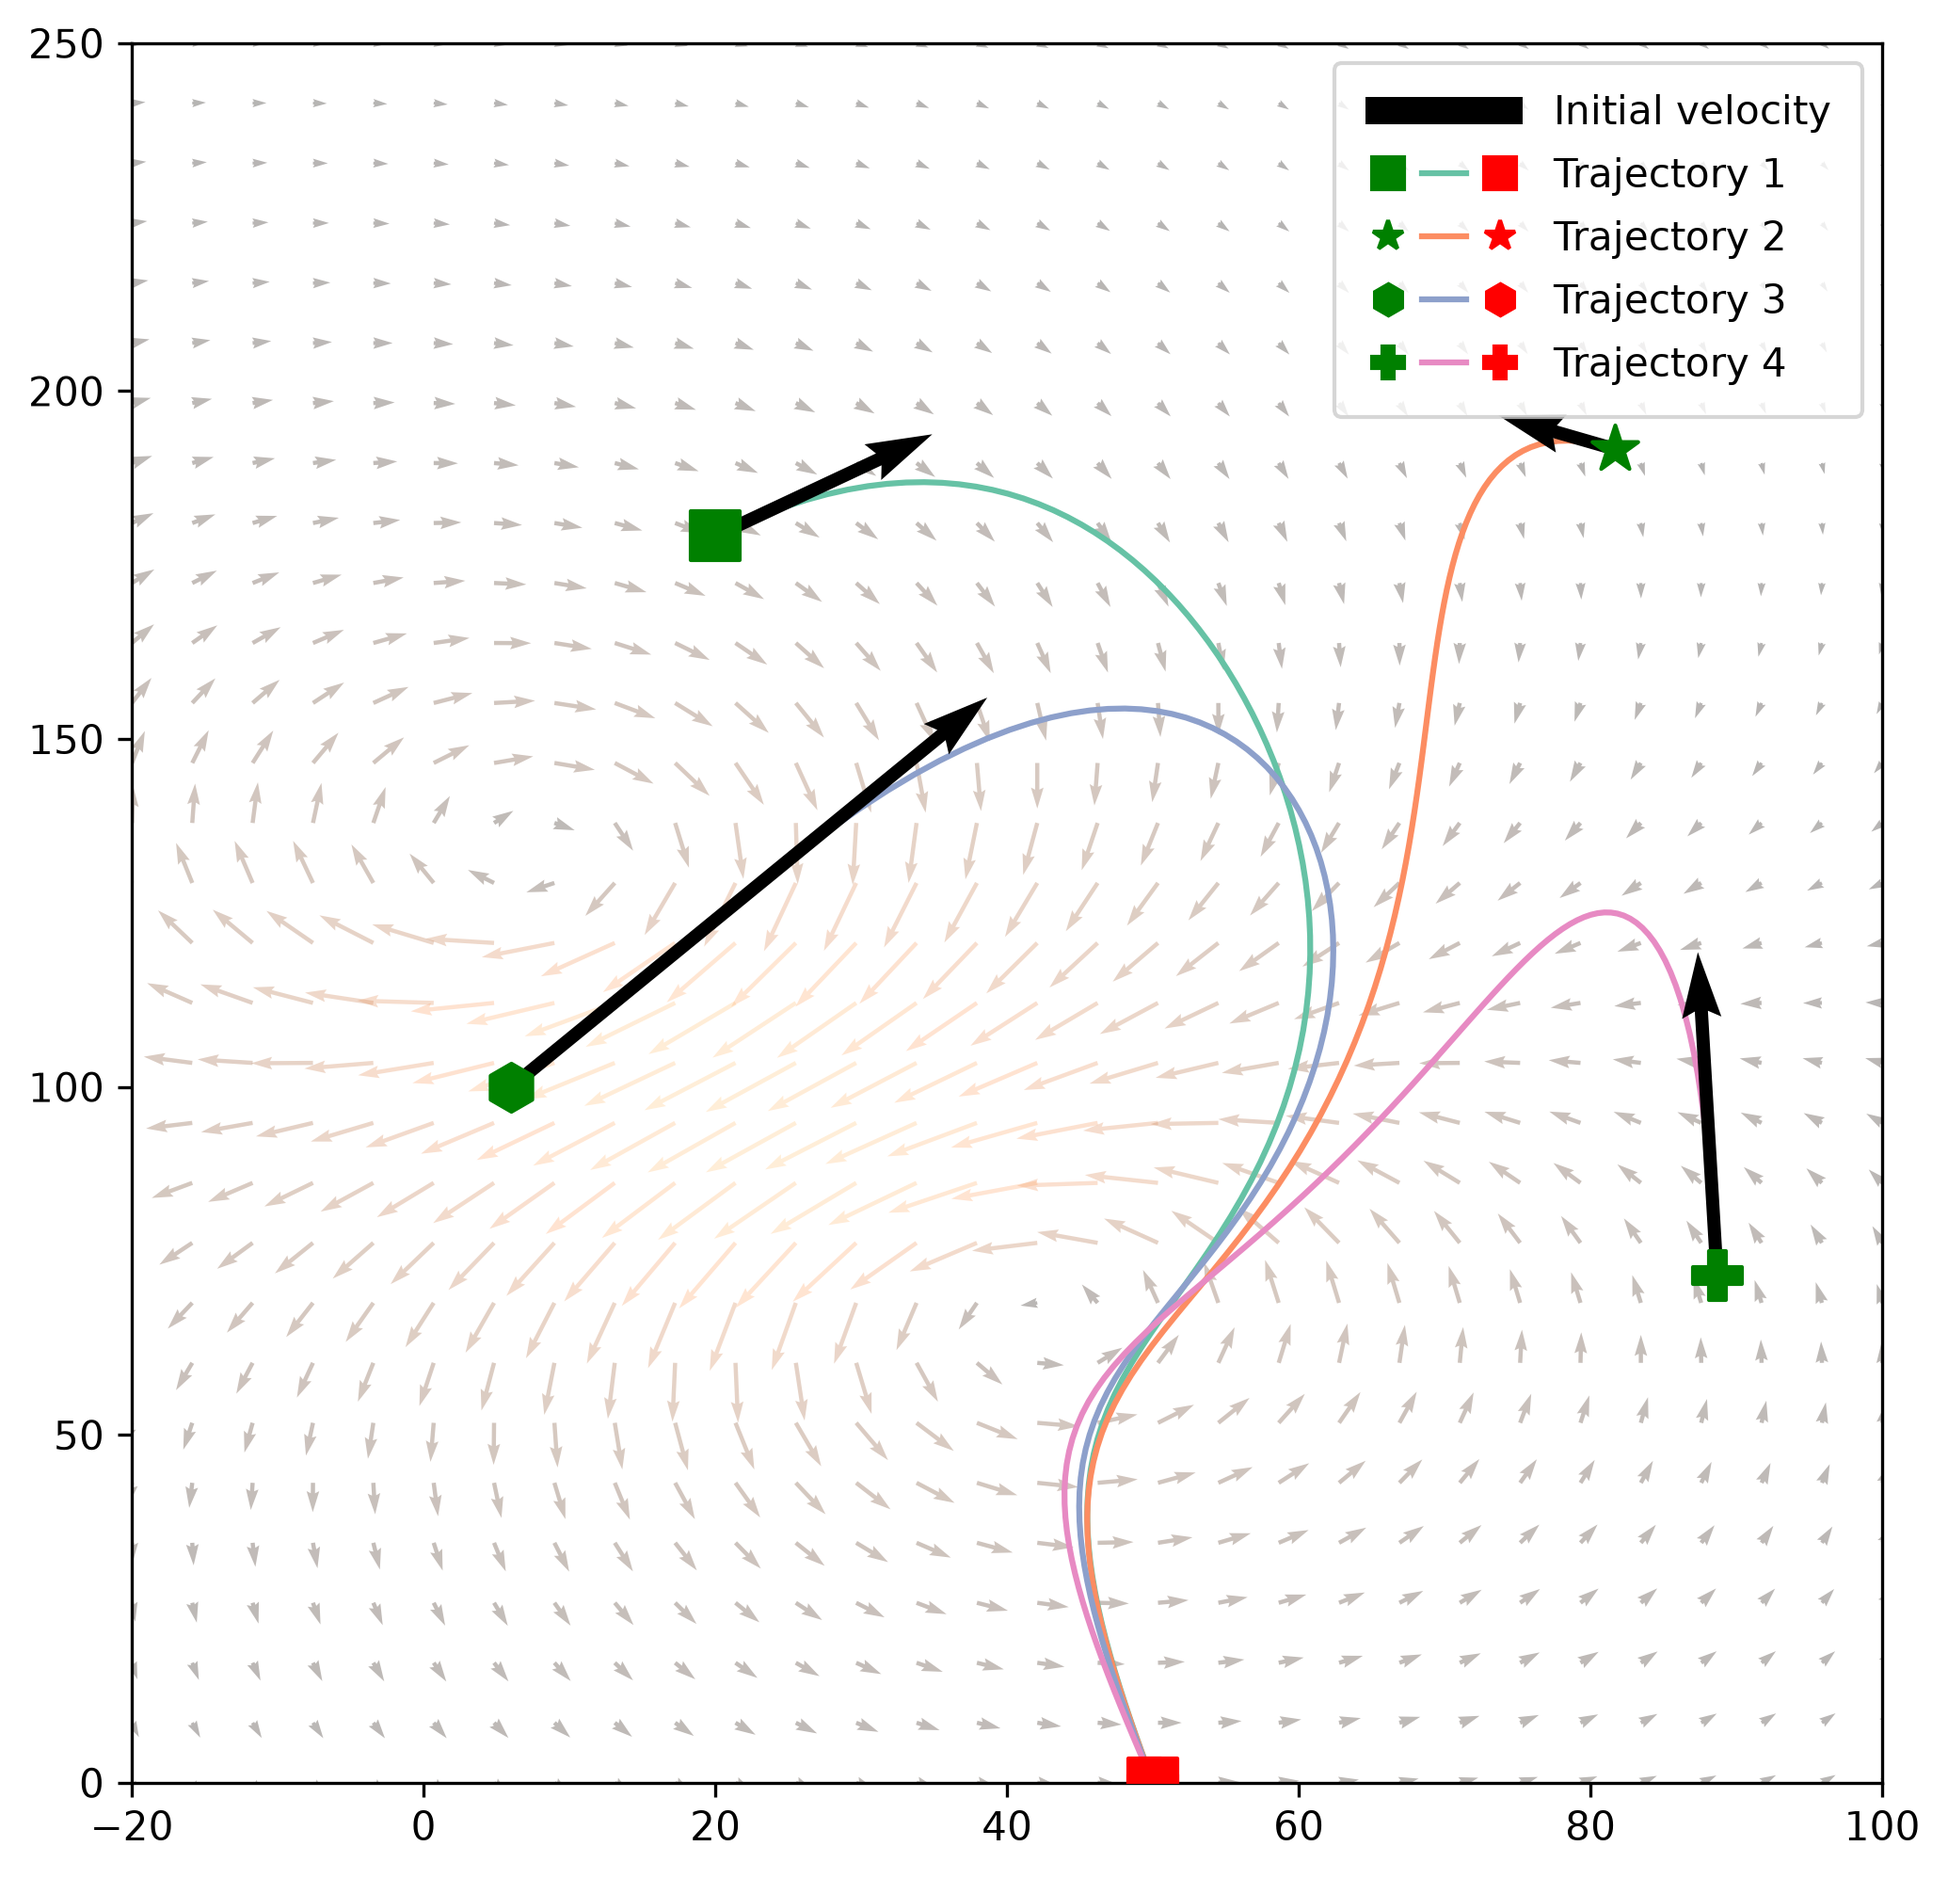
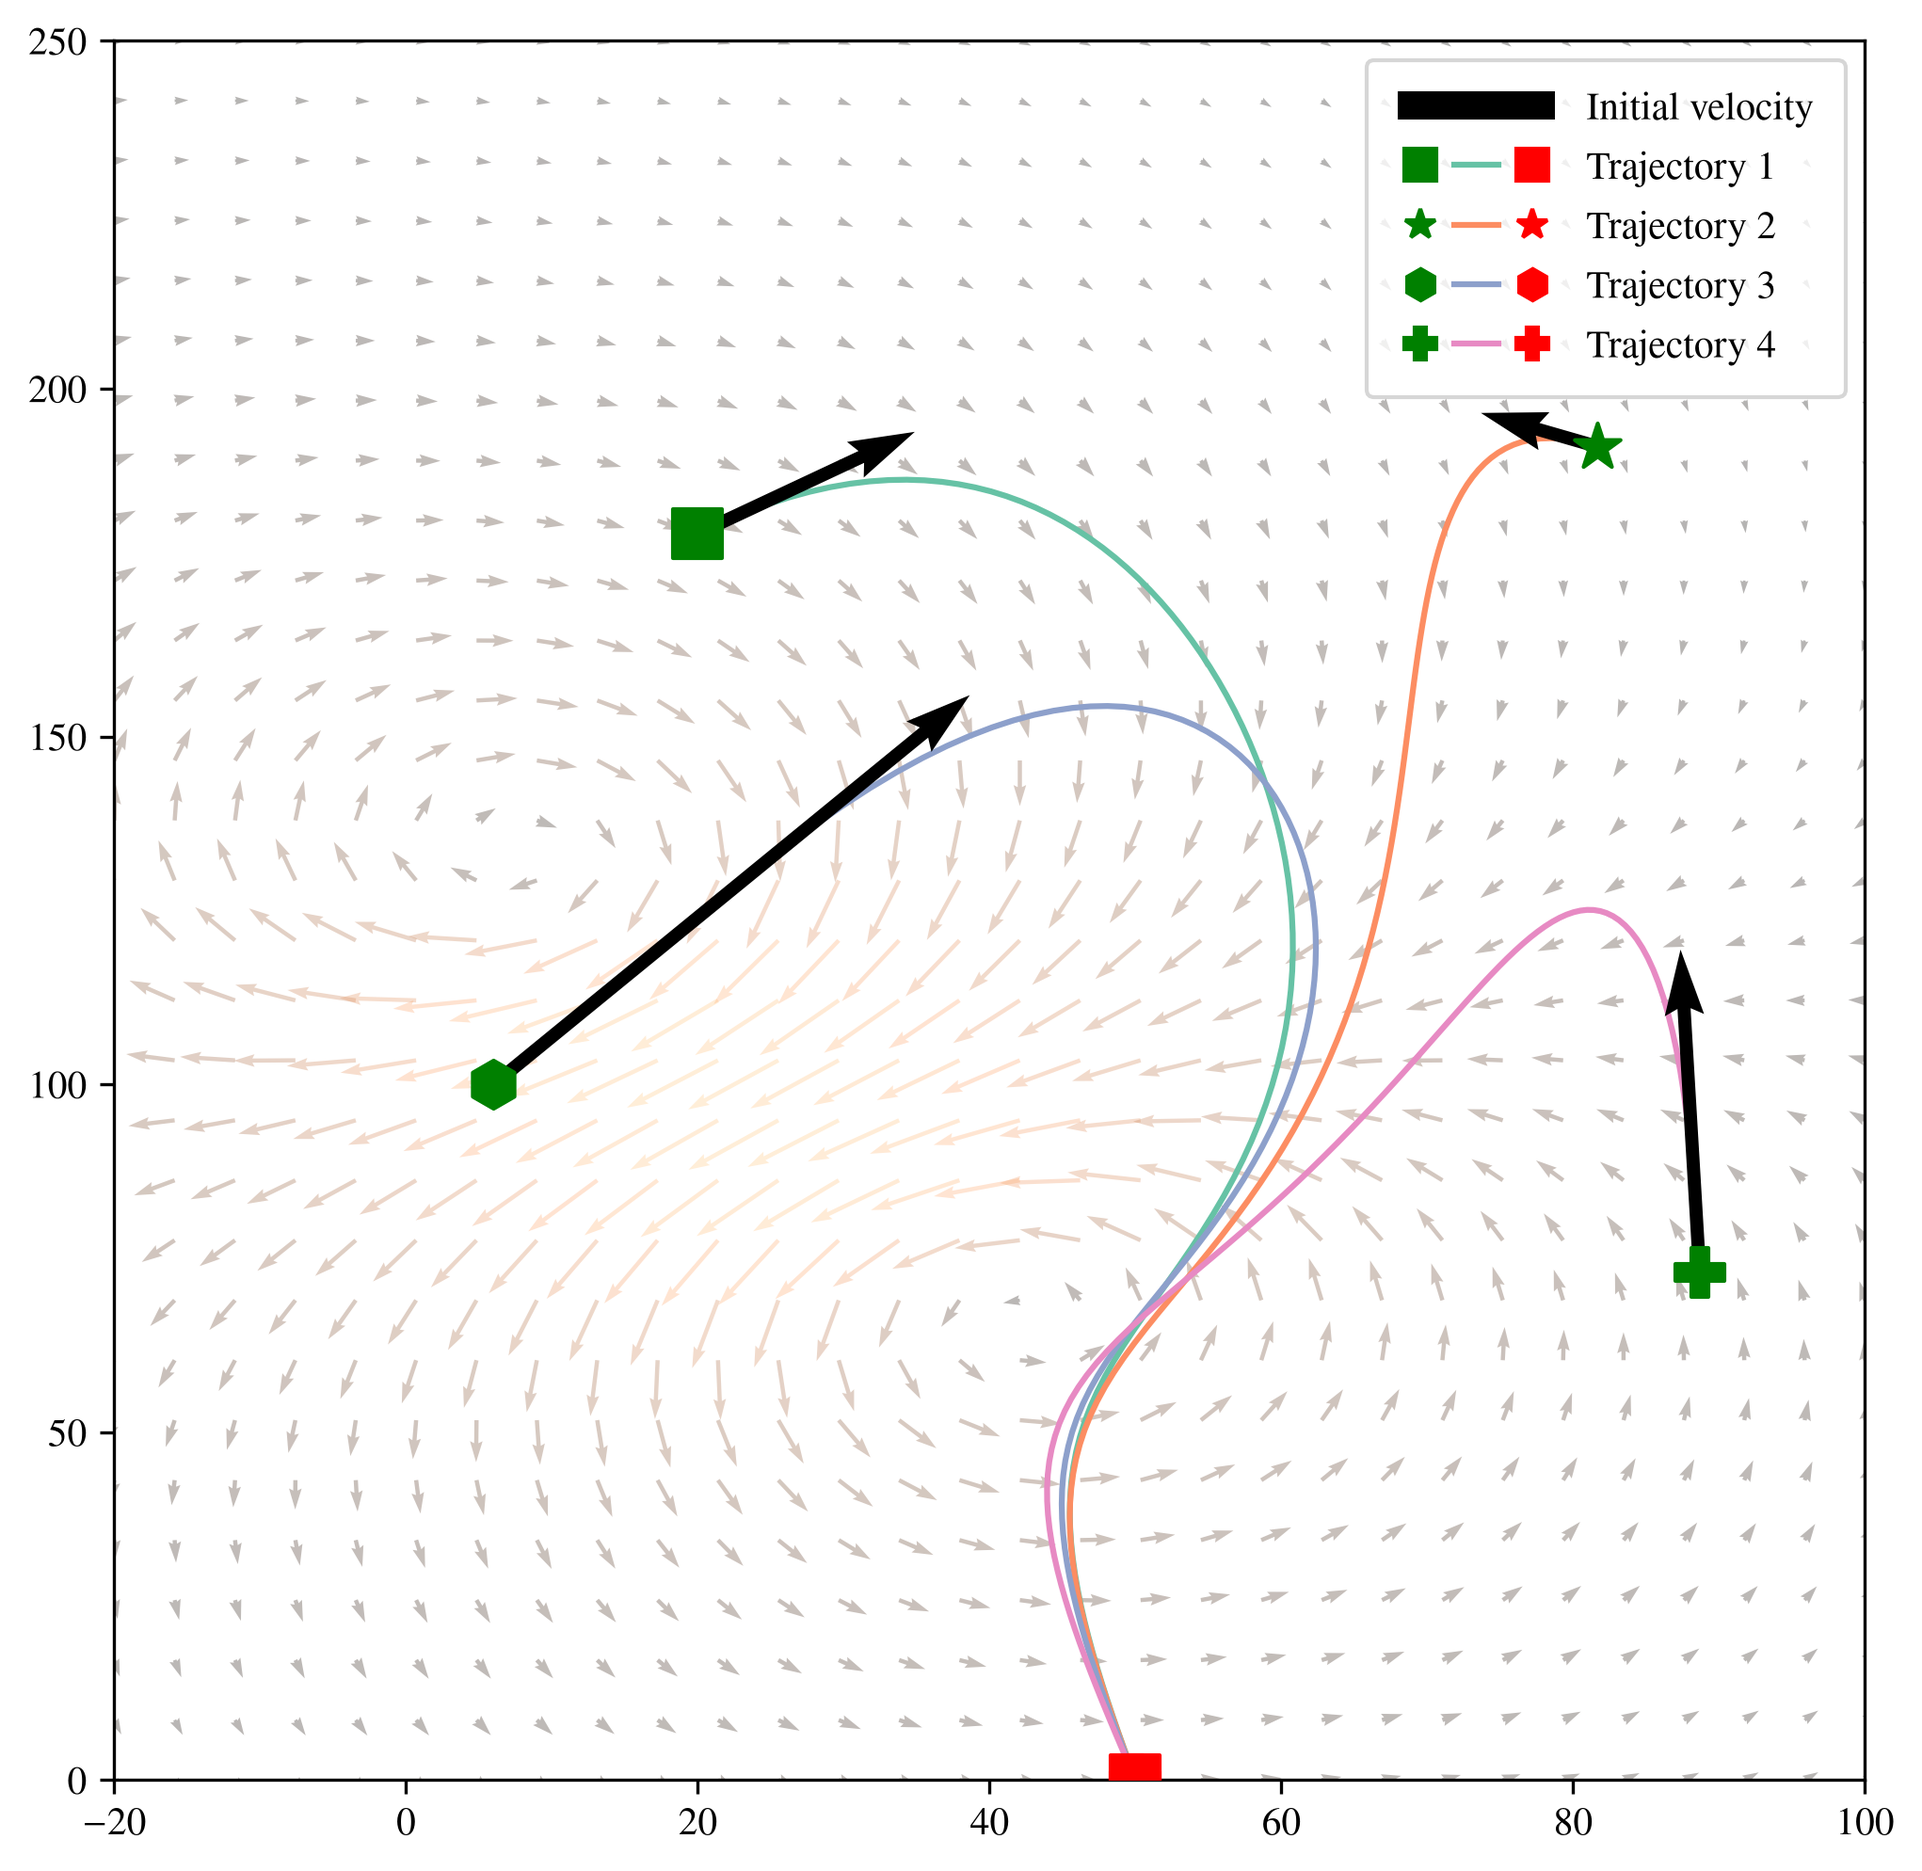
make figures use paper's font

diff --git a/code/main.py b/code/main.py
@@ -4,6 +4,10 @@ import matplotlib.pyplot as plt
 import matplotlib as mpl
 import se3, forced
 
+mpl.rcParams["text.usetex"] = True
+mpl.rcParams["font.family"] = "serif"
+mpl.rcParams["text.latex.preamble"] = r"\usepackage{newtx}"
+
 
 @dataclass(frozen=True)
 class UI[T]:
